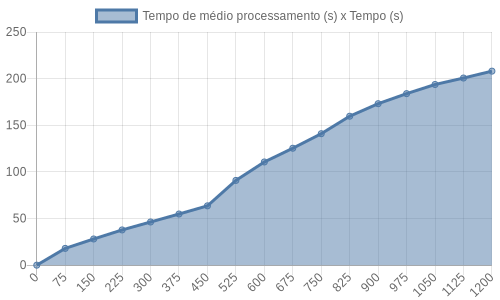
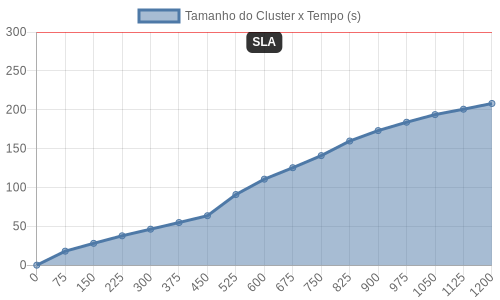
Adding annotation to processing time graphs

Changed region(s): [[0.0, 0.21, 0.99, 0.87], [0.09, 0.0, 0.96, 0.18], [0.0, 0.09, 0.03, 0.12]]

diff --git a/src/utils/generateLineChart.js b/src/utils/generateLineChart.js
@@ -6,14 +6,39 @@ export default function generateLineChart({
   fileName,
   labels,
   lineLabel,
-  yAxesUnstacked = true
+  yAxesUnstacked = true,
+  annotation = null,
 }) {
   const chart = new QuickChart();
 
   chart.setConfig({
     type: 'line',
     data: { labels, datasets: [{ label: lineLabel, data }] },
-    options: { scales: { yAxes: { stacked: yAxesUnstacked }}}
+    options: {
+      scales: {
+        yAxes: { stacked: yAxesUnstacked }
+      },
+      ...(
+        annotation && {
+          annotation: {
+            annotations: [{
+              type: 'line',
+              mode: 'horizontal',
+              scaleID: 'y-axis-0',
+              value: annotation,
+              borderColor: 'red',
+              borderWidth: 1,
+              label: {
+                enabled: true,
+                content: 'SLA',
+                position: 'bottom',
+                yAdjust: 10
+              }
+            }]
+          }
+        }
+      ),
+    }
   });
 
   chart.toFile(`${path}/${fileName}`);

diff --git a/src/functions/scripts/generateChart.js b/src/functions/scripts/generateChart.js
@@ -1,0 +1,15 @@
+import generateLineChart from 'Utils/generateLineChart';
+
+/**
+* @command sls invoke local -f GenerateChart -p tests/events/generateChart.json
+*/
+export async function main (options) {
+  const {
+    records
+  } = options;
+
+  options.data = records.map(([x, _]) => x);
+  options.labels = records.map(([_, y]) => y);
+
+  return generateLineChart(options);
+};

diff --git a/src/functions/scripts/orchestrateInstances.js b/src/functions/scripts/orchestrateInstances.js
@@ -258,6 +258,7 @@ export async function main (event) {
           data: processingTimeRecords.map(([x, _]) => x),
           labels: processingTimeRecords.map(([_, y]) => y),
           path: resultsPath,
+          annotation: sla / 1000,
           fileName: `processing_time_${resultLabel}.jpg`,
           lineLabel: 'Tempo de médio processamento (s) x Tempo (s)'
         });
